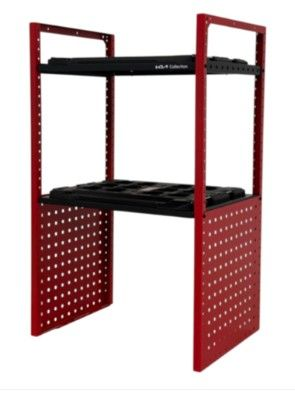
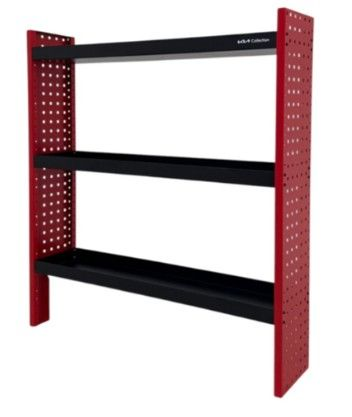
Swap images between Milwaukee 3-shelf parts and 2-shelf partition, remove '2번' from 2-shelf name

diff --git a/src/packages.ts b/src/packages.ts
@@ -182,9 +182,9 @@ export const milwaukeePackages: ProductPackage[] = [
   {
     id: 'milwaukee-2shelf-partition',
     brand: 'milwaukee',
-    name: 'PV5 밀워키 2단 선반 2번',
-    fullName: 'PV5 카고 밀워키 2단 선반 2번',
-    description: '밀워키 단품 - 2단 선반 2번',
+    name: 'PV5 밀워키 2단 선반',
+    fullName: 'PV5 카고 밀워키 2단 선반',
+    description: '밀워키 단품 - 2단 선반',
     price: 1500000,
     image: '/static/images/milwaukee-2shelf-partition.jpg',
     sections: [
